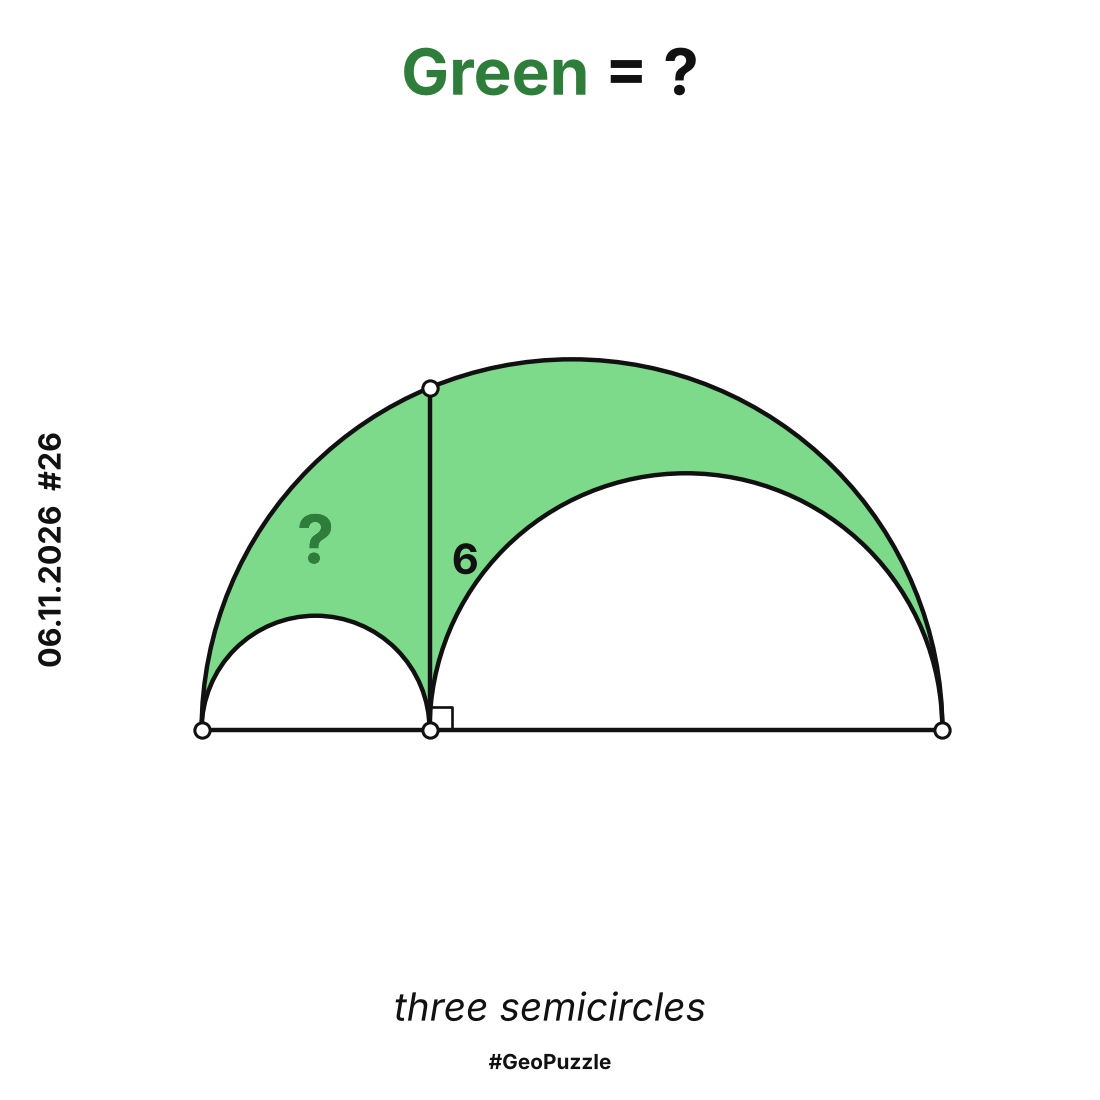
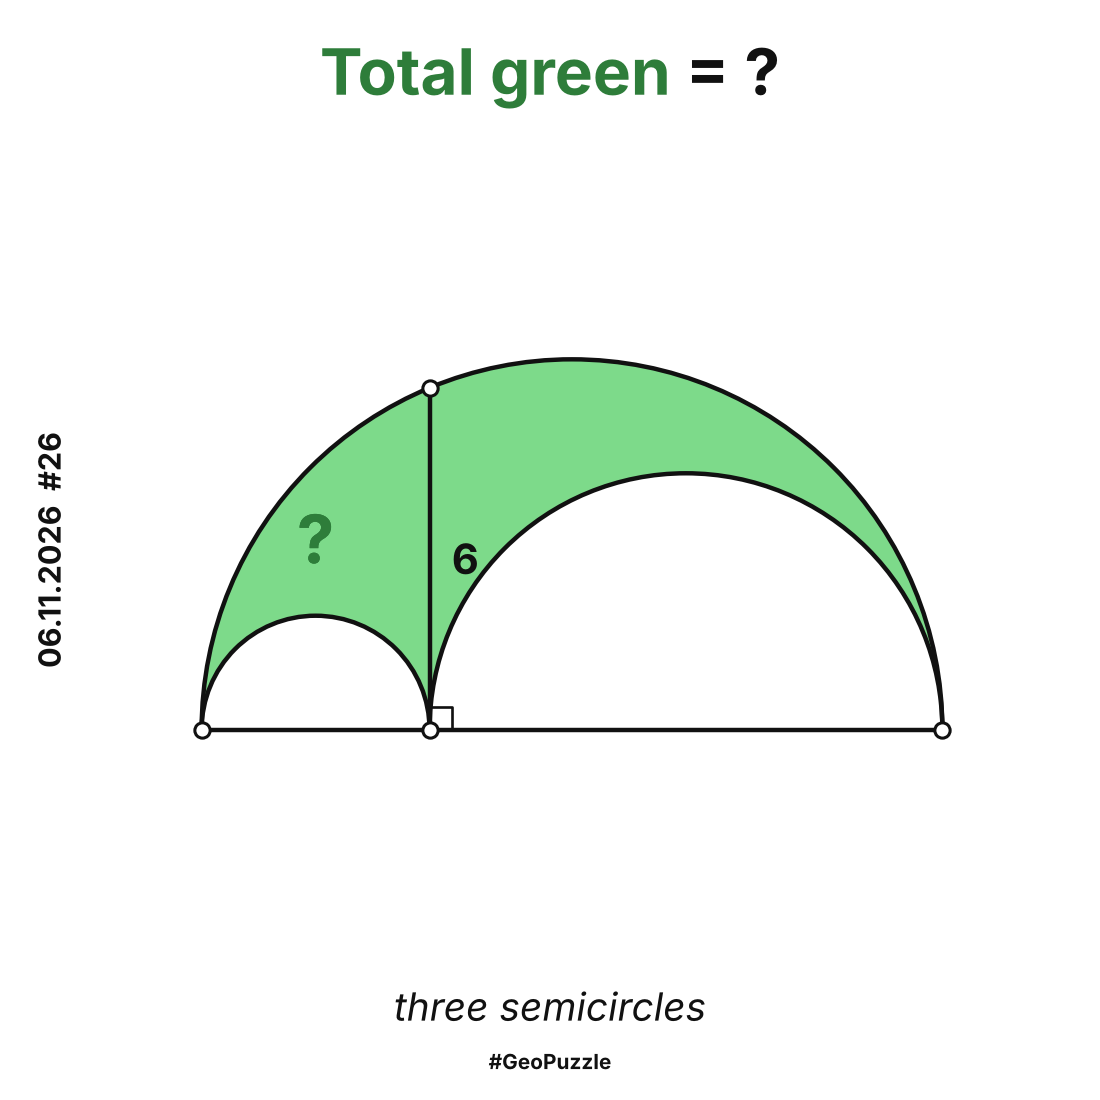
Georätsel #25/#26 nach Kaltlösen korrigiert
#26 fragt jetzt nach der ganzen grünen Fläche (die Strecke 6 teilt sie
in zwei Teile), #25 zeigt den Mittelpunkt rot.

Claude-Session: https://claude.ai/code/session_0162FGHhki4SbxiLRQK3zCFd

Changed region(s): [[0.2782, 0.0309, 0.6491, 0.0927], [0.68, 0.0309, 0.7109, 0.0927]]

diff --git a/georaetsel/2026-11-06/nr-26.py b/georaetsel/2026-11-06/nr-26.py
@@ -4,17 +4,17 @@ from _basis import *
 from shapely.geometry import box
 
 NR, KURZ = 26, "drei-halbkreise"
-TITEL = {"de": [("Grün", GRUEN_TXT), (" = ?", TINTE)], "en": [("Green", GRUEN_TXT), (" = ?", TINTE)]}
+TITEL = {"de": [("Grün gesamt", GRUEN_TXT), (" = ?", TINTE)], "en": [("Total green", GRUEN_TXT), (" = ?", TINTE)]}
 ZEILE = {"de": None, "en": None}
 STICHWORT = {"de": "drei Halbkreise", "en": "three semicircles"}
-ANTWORT = {"de": [("Grün", GRUEN_TXT), (" = 9π ≈ 28,3", TINTE)], "en": [("Green", GRUEN_TXT), (" = 9π ≈ 28.3", TINTE)]}
+ANTWORT = {"de": [("Grün gesamt", GRUEN_TXT), (" = 9π ≈ 28,3", TINTE)], "en": [("Total green", GRUEN_TXT), (" = 9π ≈ 28.3", TINTE)]}
 SCHRITTE = {
     "de": ["Nenne die kleinen Radien a und b. Der große Radius ist a + b.",
-           "Grün = halber großer Kreis minus zwei halbe kleine Kreise = π/2 · ((a + b)² − a² − b²) = π · a · b.",
+           "Grün (beide Teile) = halber großer Kreis minus zwei halbe kleine Kreise = π/2 · ((a + b)² − a² − b²) = π · a · b.",
            "Der Winkel oben an der Spitze der gestrichelten Linien ist ein rechter (Thales). Dafür gilt: 6² = 2a · 2b, also a · b = 9.",
            "Grün = 9π – genau so groß wie der gestrichelte Kreis über der Strecke 6. Wo die Strecke steht, ist egal."],
     "en": ["Call the small radii a and b. The big radius is a + b.",
-           "Green = half big circle minus two half small circles = π/2 · ((a + b)² − a² − b²) = π · a · b.",
+           "Green (both parts) = half big circle minus two half small circles = π/2 · ((a + b)² − a² − b²) = π · a · b.",
            "The angle at the top of the dashed lines is a right angle (Thales). So 6² = 2a · 2b, which gives a · b = 9.",
            "Green = 9π – exactly the dashed circle on the segment 6. Where the segment stands does not matter."],
 }

diff --git a/georaetsel/2026-11-06/nr-25.py b/georaetsel/2026-11-06/nr-25.py
@@ -32,7 +32,7 @@ def figur(ax, loesung=False):
     linie(ax, (0, 0), (R, 0)); linie(ax, (0, 0), (0, R)); bogen(ax, (0, 0), R, 0, 90)
     zug(ax, [(0, 0), (3, 0), (3, 4), (0, 4)])
     rechter_winkel(ax, (0, 0), (1, 0), (0, 1), groesse=3.5)
-    punkt(ax, (3, 4)); punkt(ax, (3, 0)); punkt(ax, (0, 4)); punkt(ax, (R, 0)); punkt(ax, (0, R))
+    punkt(ax, (0, 0), "rot"); punkt(ax, (3, 4)); punkt(ax, (3, 0)); punkt(ax, (0, 4)); punkt(ax, (R, 0)); punkt(ax, (0, R))
     masslinie(ax, (3, 0), (R, 0), "2", seite=-1, abstand=6)
     masslinie(ax, (0, 4), (0, R), "1", seite=1, abstand=6)
     if loesung:
